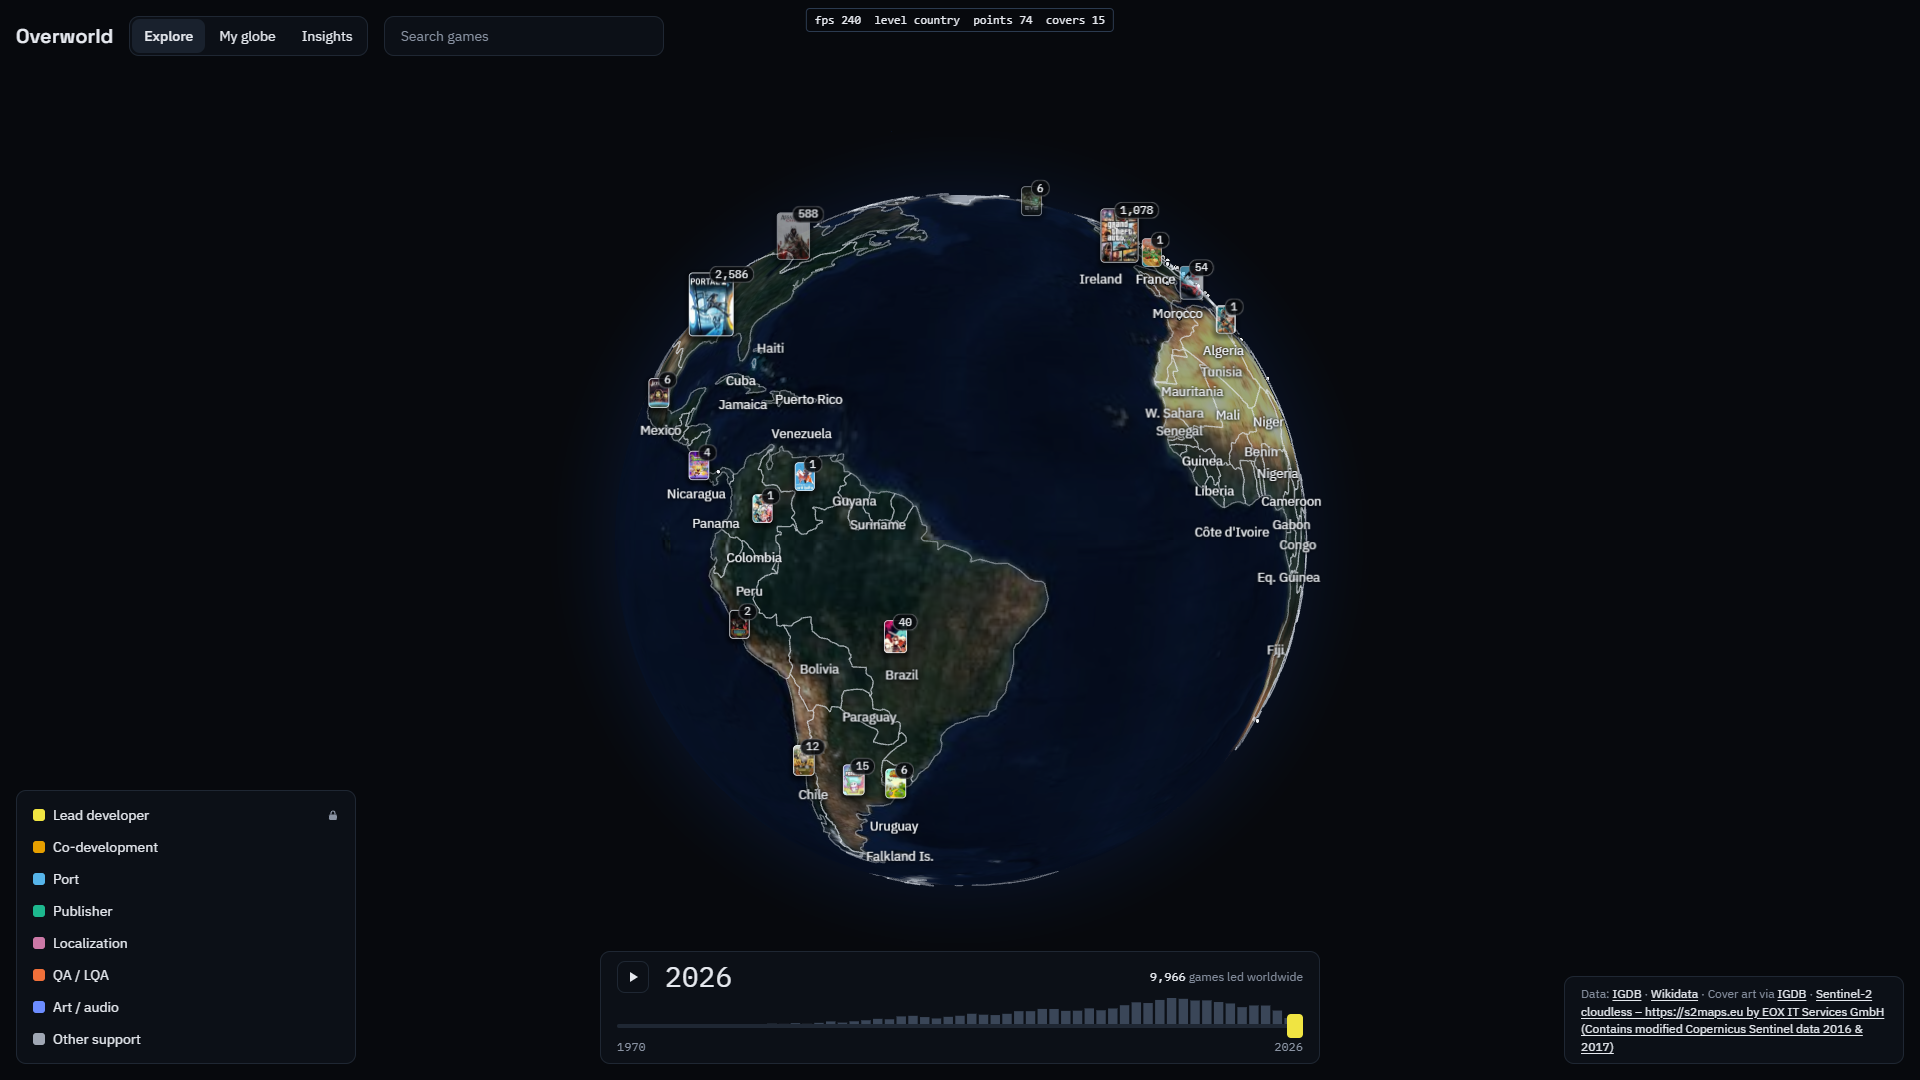
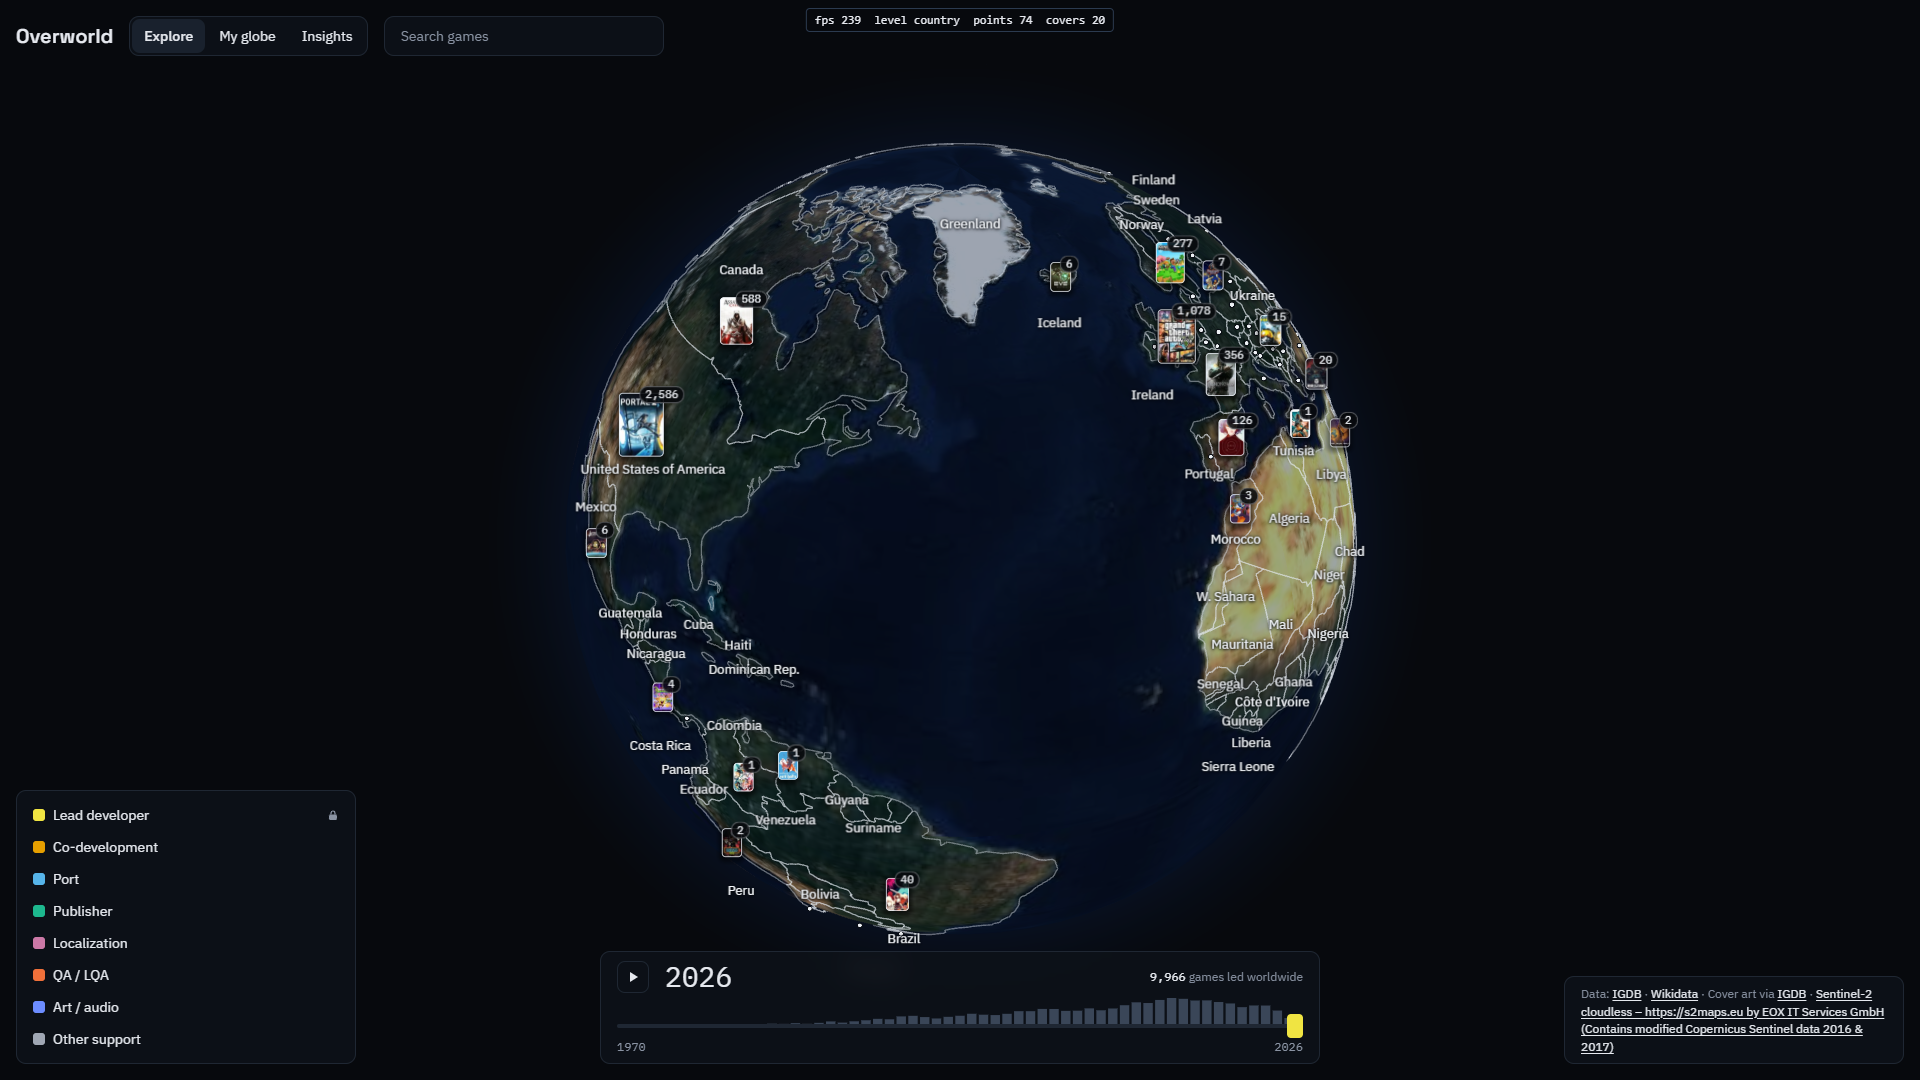
Refresh real-data performance report and screenshots

Changed region(s): [[0.2812, 0.1222, 0.7188, 0.8861]]

diff --git a/reports/performance-real.md b/reports/performance-real.md
@@ -1,9 +1,9 @@
 # Globe performance, real data
 
-- Date: 2026-11-16T08:16:31.312Z
+- Date: 2026-11-16T16:35:17.445Z
 - GPU renderer: `ANGLE (NVIDIA, NVIDIA GeForce RTX 2060 SUPER (0x00001F06) Direct3D11 vs_5_0 ps_5_0, D3D11)` (vendor `Google Inc. (NVIDIA)`)
 - Browser: Chrome/157.0.8103.51, headful, viewport 1920x1080 at devicePixelRatio 1
-- Server: vite dev server (unminified React development build), data set `real`: 9966 games, 6241 companies, years 1970 to 2026, generatedAt 2026-11-16T07:40:16.218Z
+- Server: vite dev server (unminified React development build), data set `real`: 9966 games, 6241 companies, years 1970 to 2026, generatedAt 2026-11-16T08:19:52.087Z
 - Pass criterion per scenario: average >= 58 fps and p95 frame time <= 20 ms, and the camera reached the intended zoom level
 - Overall: **PASS**
 
@@ -13,14 +13,14 @@ Frame times come from a requestAnimationFrame loop inside the page. 1% low is 10
 
 | Scenario | Level | Points | Covers | Avg fps | 1% low fps | Median ms | p95 ms | Max ms | Frames | >20 ms | App fps | Result |
 |---|---|---|---|---|---|---|---|---|---|---|---|---|
-| a-idle-country | country | 74 | 16 | 240 | 232.6 | 4.2 | 4.3 | 4.3 | 1199 | 0% | 240 | PASS |
-| b-orbit-country | country | 74 | 22 | 238.2 | 132.6 | 4.2 | 4.3 | 12.6 | 1191 | 0% | 240 | PASS |
-| c-orbit-city-europe | city | 483 | 90 | 240 | 232.6 | 4.2 | 4.3 | 4.3 | 1199 | 0% | 240 | PASS |
-| d-orbit-company-dense-city | company | 4880 | 27 | 239.8 | 215.4 | 4.2 | 4.3 | 8.3 | 1198 | 0% | 240 | PASS |
-| e1-year-play-country | country | 74 | 21 | 239.8 | 211.1 | 4.2 | 4.3 | 16.6 | 4699 | 0% | 235 | PASS |
-| e2-year-play-company | company | 4880 | 27 | 239.9 | 219.7 | 4.2 | 4.3 | 12.4 | 4702 | 0% | 240 | PASS |
-| f-game-arcs | country | 74 | 14 | 239.8 | 215.8 | 4.2 | 4.3 | 8.2 | 1198 | 0% | 240 | PASS |
-| g-game-filter-toggle | country | 74 | 14 | 238.2 | 137.2 | 4.2 | 4.3 | 12.6 | 1429 | 0% | 238 | PASS |
+| a-idle-country | country | 74 | 23 | 238.2 | 135.1 | 4.2 | 4.3 | 12.5 | 1190 | 0% | 238 | PASS |
+| b-orbit-country | country | 74 | 19 | 235.8 | 109.9 | 4.2 | 4.4 | 12.7 | 1179 | 0% | 238 | PASS |
+| c-orbit-city-europe | city | 482 | 90 | 236.8 | 119.2 | 4.2 | 4.4 | 8.7 | 1183 | 0% | 231 | PASS |
+| d-orbit-company-dense-city | company | 4880 | 27 | 237.6 | 115.6 | 4.2 | 4.3 | 33.2 | 1187 | 0.1% | 240 | PASS |
+| e1-year-play-country | country | 74 | 21 | 239.1 | 170.5 | 4.2 | 4.3 | 16.6 | 4688 | 0% | 234 | PASS |
+| e2-year-play-company | company | 4880 | 27 | 239.9 | 218.6 | 4.2 | 4.3 | 8.3 | 4703 | 0% | 240 | PASS |
+| f-game-arcs | country | 74 | 14 | 239.8 | 210.5 | 4.2 | 4.3 | 8.4 | 1198 | 0% | 240 | PASS |
+| g-game-filter-toggle | country | 74 | 14 | 236.3 | 96.8 | 4.2 | 4.3 | 20.8 | 1417 | 0.1% | 236 | PASS |
 
 - a-idle-country: Idle at country level (default view, default slow auto-rotate). Screenshot docs/screenshots/real-a-idle-country.png
 - b-orbit-country: Orbiting continuously at country level. Screenshot docs/screenshots/real-b-orbit-country.png
@@ -30,14 +30,14 @@ Frame times come from a requestAnimationFrame loop inside the page. 1% low is 10
 - e2-year-play-company: Year slider playing 1970 to 2026 at 350 ms/year, company level over Tokyo. Screenshot docs/screenshots/real-e2-year-play-company.png
 - f-game-arcs: Game selected: Assassin's Creed Shadows (16 roles, 4 role types), arcs animating. Screenshot docs/screenshots/real-f-game-arcs.png
 - g-game-filter-toggle: Same game, toggling "Other support" and "Port" on/off once per second. Screenshot docs/screenshots/real-g-game-filter-toggle.png
-  - 5 filter toggles; 0 frames over 20 ms, 0 of them within 250 ms after a toggle; worst frame 13 ms; slow frames (ms): 
+  - 5 filter toggles; 1 frames over 20 ms, 1 of them within 250 ms after a toggle; worst frame 21 ms; slow frames (ms): 21
 
 ## Functional checks
 
 - PASS **arcs**: expected 15 (from detail data, 9 roles enabled); scene arc objects 15; globe arcsData prop 15
 - PASS **role filter**: "Other support" aria-pressed true -> false -> true; scene arcs 15 -> 2 (expected 2) -> 15; screenshots differ: true
 - PASS **search**: typed "Knights of the Round", 1 results, first "Knights of the Round" (is target: true); Enter -> card heading "Knights of the Round", selectedGameId 6816
-- PASS **cover images (country level)**: level country; 21 covers placed, 21 of them showing their loaded image after 0.2 s (need >= 20); 287 images uploaded to the atlas so far
+- PASS **cover images (country level)**: level country; 21 covers placed, 21 of them showing their loaded image after 0.2 s (need >= 20); 290 images uploaded to the atlas so far
 - PASS **year slider**: keyboard on slider; readout "1985" (range 1985); places drawn (covers + dots) 5 at 1985 vs 74 at 2026; "208 games led worldwide"
 - PASS **year changes covers**: same view, 2026 -> 1985: 21 -> 1 covers; 1 places have a cover in both years, 1 of them now show a different game (need >= 1)
 - PASS **place click**: clicked US point at (960,540), hover tooltip "Portal 2 / United States / 2586 games led by 2026"; panel "Place: United States", selectedPlace {"level":"country","key":"US"}; level country -> city
